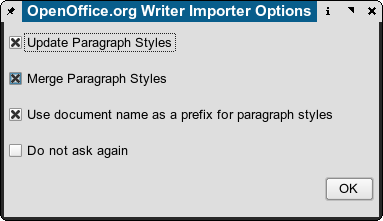
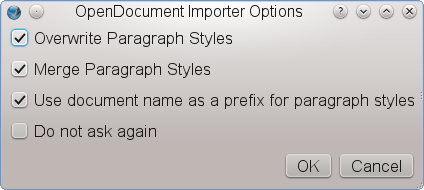
new version of importhints3
git-svn-id: svn+ssh://canvas.scribus.eu/svn/branches/Version135@15727 11d20701-8431-0410-a711-e3c959e3b870

diff --git a/Scribus/scribus/doc/en/importhints3.html b/Scribus/scribus/doc/en/importhints3.html
@@ -1,60 +1,87 @@
 <html>
 <head>
 	<meta http-equiv="Content-Type" content="text/html; charset=UTF-8"/>
-	<title>Scribus and OpenOffice.org</title>
+	<title>Scribus and OpenOffice.org/OpenDocument</title>
 </head>
 <body>
-<h2>Scribus and OpenOffice.org</h2>
-<h4>Overview</h4>
-<p>The open and XML based file formats (.sxw and .odt etc.) used by OpenOffice.org in all versions, share some common traits with Scribus. The clear documentation and specs have helped the Scribus Team to create very useful import features. Expect more enhancements in the future. One of the pleasant surprises to see in the OpenOffice.org version 2 releases is the improved EPS exporter. The 1.1.x version sometimes had difficulties exporting correctly.  The exporter in V 2.x in testing here seems to create better, more conformant files, which Scribus imports with little difficulties. Except for OpenOffice.org Writer files, the magic trick to get high quality imports into Scribus depends on using OO.org Draw. Almost any type of OpenOffice.org file can be imported into Scribus with high fidelity, provided you export from Draw as EPS. Native Draw files can usually be imported directly into Scribus. </p>
-<h4>Importing from OpenOffice.org Writer</h4>
-<p>The importer for Writer imports <strong>only</strong> the text contained in your document. Images and drawings need to be saved separately outside of the Writer document and then each drawing or image is then imported individually. Thus, a compound Writer document with tables of charts will not import the tables or charts. Tables, charts or other embedded objects, need to be placed into their own Draw file and exported by the methods described below.</p>
-<p>The singular most important issue to take into consideration for hassle free OO.org Writer import is well chosen usage and correctly applying styles in OO.org. Doing so will greatly reduce the amount of time needed within Scribus to format and style text. Any special paragraph styles in your Writer file will automatically be imported into your existing Scribus document.</p>
-<h4>Step by Step:</h4>
-<ul>
-<li>Select the text frame.</li>
-<li>Right Click > Get Text..  </li>
-<li>Select your OO.org document. The importer is smart enough to know recognize the type of OO.org file.</li>
- </ul>
+<h2>Scribus and OpenOffice.org/OpenDocument</h2>
 
-<p>This will import <strong>all</strong> the text in your document, so ensure there is enough space in your frames or link extra text frames on subsequent pages. You can comfortably import 10, 20 or even 50 pages of text in one go. In testing the importer we have imported 600 pages. However, the practical limit is probably not more than a chapter's (15&#8211;30 pages) worth of text for performance reasons.</p>
+<h4>Overview</h4>
+<p>When SUN Microsystems started the OpenOffice.org project, it also introduced a new type of file format. While OpenOffice.org&rsquo;s predecessor StarOffice used a binary format to store its data, OpenOffice.org&rsquo;s file format consisted of several XML files that were combined into a ZIP archive. Later, OpenOffice.org&rsquo;s file formats provided the basis for a new international standard for office documents, such as text documents, spreadsheet or presentations. The standard has been developed by the <a href="http://www.oasis-open.org/home/index.php">Organization for the Advancement of Structured Information Standards (OASIS)</a>, and it&rsquo;s called <a href="http://www.oasis-open.org/specs/index.php#opendocument">OpenDocument</a> (ODT). OpenDocument has become an ISO standard in 2006 (ISO/IEC 26300:2006).
+<br>
+The clear documentation and specs have helped the Scribus Team to create some useful import features, which will be enhanced in the future.</p>
+<h4>Importing OpenOffice.org Writer and OpenDocument files</h4>
+<p>The importer for Writer (SXW) and ODT documents works per text frame and imports <i>only</i> the text contained in your document. Images and drawings need to be saved separately outside of the Writer document and then each drawing or image can be imported individually. Thus, a compound Writer document with tables or charts will not import the latter. Tables, charts or other embedded objects, need to be placed into their own Draw file and exported as described below.</p>
+<p>The single most important issue to take into consideration for hassle-free SXW/ODT import is well chosen usage of styles in Writer or any other ODT-compliant word processor. Doing so will greatly reduce the amount of time needed within Scribus to format and style text. Any special paragraph styles in your Writer or ODT file will automatically be imported into your existing Scribus document.</p>
+
+<h4>SXW/ODT import step by step</h4>
+<ol>
+<li>Select the text frame.</li>
+<li>Right-click > Get Text ...  </li>
+<li>Select your SXW/ODT document.</li>
+</ol>
+
+<p>This will import <i>all</i> the text from the source document, so ensure there is enough space in your frame or link extra text frames to the one you are importing into. You can comfortably import 10, 20 or even 50 pages of text in one go. However, the practical limit is probably not more than a chapter&rsquo;s (15&ndash;30 pages) worth of text for performance reasons.</p>
+<h4>Let Scribus create text frames for you</h4>
+<p>If you have an idea how many text frames you will need for the imported text, you can use an advanced import option. You can find it in the &ldquo;Insert&rdquo; menu, and it&rsquo;s called <i>Frame&nbsp;...</i>.</p>
+<p>The &ldquo;Insert Frame&rdquo; dialog consists of four tabs. In the first one you have to select &ldquo;Text Frame&rdquo; in this context. In the second tab, &ldquo;Location&rdquo;, you can determine the pages, on which the new frames will be placed, as well as their position on a page.</p>
+
+<table width="100%"><tr><td align="center"><img src="images/insert-frame-1.png" alt="The &ldquo;Insert Frame&rdquo; dialog, tab 1" align="middle" title="The &ldquo;Insert Frame&rdquo; dialog, tab 1" /></td></tr></table>
+
+<p>In the third tab, &ldquo;Size&rdquo;, you can set the size of the frames that are being inserted, and in the &ldquo;Options&rdquo; tab you determine what&rsquo;s inside the frame and how it will look:</p>
+
+<table width="100%"><tr><td align="center"><img src="images/insert-frame-2.png" alt="The &ldquo;Insert Frame&rdquo; dialog, tab 4" align="middle" title="The &ldquo;Insert Frame&rdquo; dialog, tab 4" /></td></tr></table>
+<p>
+<ul>
+<li><b>Columns</b>: The number of text columns in the frame.</li>
+<li><b>Gap</b>: The gap between the text columns.</li>
+<li><b>Link inserted frames</b> does exactly what it says.</li>
+<li><b>Links to existing frame</b> lets you link the first of the newly created frames to an already existing frame. You can choose the latter from a drop down list that contains all existing frames, sorted by their name.</li>
+<li><b>Source Document:</b> Here can you choose the text document whose content will fill the new frames.</li>
+</ul>
+</p>
+
+<h4>SXW/ODT import options</h4>
 
 <p> When importing text from OO.org there are three important options which need to be carefully considered:</p>
 
-<table width="100%"><tr><td align="center"><img src="images/oogettext1.png" alt="Import Options for OO.org Writer and OASIS (Open Document) files." align="middle" title="Import Options for OO.org Writer and OASIS (Open Document) files." /></td></tr></table>
+<table width="100%"><tr><td align="center"><img src="images/oogettext1.png" alt="Import Options for OO.org Writer and OASIS (Open Document) files." align="middle" title="Import Options for SXW and ODT files." /></td></tr></table>
 
 <ul>
-   <li><strong>Update Paragraph Styles</strong> This option will tell Scribus to change the formatting of any created styles in your Scribus document to follow those in the OO.org document. </li>
-   <li><strong>Merge Paragraph Styles</strong> This option looks at the actual attributes (fonts, size) of the OO.org and merges style which have common attributes. This can help to eliminate differently named, but similar styles.</li>
-   <li><strong>Use Document Name as a prefix for paragraph styles </strong> - is self-explanatory, but can be useful for sorting styles when importing from several documents. </li>
-<li><strong>Do Not Ask Again</strong>  - <strong>Caution</strong> This last option will make this permanent until you completely remove your preferences files. This will be fixed in a future release. <!--reset it in File &#062; Preferences &#062; permanent these options.--></li>
+   <li><b>Overwrite Paragraph Styles</b> This option will tell Scribus to change the formatting of any created styles in your Scribus document to follow those in the imported document. </li>
+   <li><b>Merge Paragraph Styles</b> This option looks at the actual attributes (fonts, size) of the imported document and merges styles which have identical attributes. This can help to eliminate differently named, but otherwise identical styles.</li>
+   <li><b>Use Document Name as a prefix for paragraph styles</b> is self-explanatory. This can be useful for sorting styles when importing from several documents. </li>
+<li><b>Do Not Ask Again</b>  Caution! This last option will make your choices above permanent. The only way to undo this is to open the file <code>prefs135.xml</code> in the hidden folder <code>./scribus</code> in your home directory with a text editor, then search for the text string <code>attribute key"=ask-Again" value=0</code> and replace the 0 with 1.</li>
  </ul>
 
 
 
-<h4>Importing Charts and Tables from Calc </h4>
-<p>This is a special case which needs to be done carefully. After you have created your Chart or Table in Calc, then <strong>Copy > Paste Special </strong> and embed the chart <strong>not</strong> as a GDI image, but as a linked object into a Draw Document, like below:</p>
+<h4>Importing Tables from Calc </h4>
+<p>Since Scribus&rsquo;s table implementation is rather simple, it may be more convenient to create a table in a dedicated spreadsheet application like OpenOffice.org Calc. Here&rsquo;s a step-by-step instruction for successful table import from Calc:</p>
 
-<table width="100%"><tr><td align="center"><img src="images/oochart.png" alt="Embedding a Chart in to OO.org Draw" align="middle" title="Embedding a Chart in to OO.org Draw" /></td></tr></table>
+<p>1. Create your table in either OpenOffice.org Calc:</p>
 
-<p>After placing the linked object, import using one of the two methods below.</p>
+<table width="100%"><tr><td align="center"><img src="images/table-import-1.png" align="middle"/></td></tr></table>
 
-<h4>Importing Native OO.org Draw Files</h4>
-<p>There are two methods: First is to use the native importer. For most drawings this works very well and I have tested very complex Draw files which imported flawlessly. In some cases, especially with gradients, it may be preferable to test exporting EPS, with the settings further down. The second method is to export EPS from OO.org. You should test both methods of export for best quality not only on screen, but by exporting a PDF and then zooming with Adobe Acrobat Reader is a recommended quality check.</p>
+<p>2. Copy the table items you need in Scribus (i.e., not the whole spreadheet) to the clipboard, create a new OpenOffice.org Draw document, and use <i>Edit > Paste Special > GDI Metafile</i> to insert the table as a vector file into Draw: </p>
+<table width="100%"><tr><td align="center"><img src="images/table-import-2.png" align="middle"/></td></tr></table>
 
-<ul>
-   <li>  It is important to note Draw 3D objects do not export well, as they are limited to screen resolution. They do not print well in most cases and will appear pixellated at print resolutions.  </li>
-   <li>Not all shapes in OO.org Draw 2.x are supported. Contours and callouts do not currently work natively. The workaround is to go <strong>Edit > Select All</strong> in Draw and then right click the selection, then choose <strong>Convert to Curves or Convert to Polygons</strong> depending on the kind of content.</li>
-   <li>Most curves, polygons and bezier shapes are imported without issues. The same applies for star shapes, ellipses and markers - a type of line with arrows. </li>
-   <li>Text effects should be avoided in preference to doing them natively in Scribus which has very versatile text effects.  </li>
- </ul>
+<p>3. Use <i>File > Export</i> to export the table as an EPS file. Make sure that &ldquo;Selection&rdquo; is checked in the export dialog, because otherwise the whole page will be exported. </p>
+<p>4. Now import the EPS file as a vector drawing into Scribus via <i>File > Import > Get Vector File</i>. The result will be a nicely formatted table in Scribus that can be edited using Scribus&rsquo;s vector tools:</p>
 
-<h4>Importing Formulas</h4>
-<p>The most reliable way I have found is to save your formula as desired and Close Math. Then open OO.org Draw and create a new file. Then, <strong>Insert Object > Formula</strong>. You will have a tiny embedded square on Draw's canvas. Then, right click the embedded object > <strong>Edit Object</strong>. Then, Draw will launch Math. In Math, select <strong>Tools > Import Formula</strong> and browse to your saved formula. Then save to close the file and the embedded formula is now scalable in Draw with the context menus. Save this Draw file, then export as EPS and import into Scribus. The formulas and text will import as a grouped objects as scalable vector items. Any text is imported as outlines as well. This will result in formulas which will print with <strong>very</strong> high quality and little worries when exported as PDF. Saving the Draw file and attempting to import the Draw file with embedded objects will fail, as Scribus cannot access those object directly.</p>
-<h4>Export Settings from OO.org Draw</h4>
-<p>Below are the recommended EPS export settings for all versions of OO.org Draw.</p>
-<table width="100%"><tr><td align="center"><img src="images/ooeps1.png" alt="Recommended EPS Export Settings" align="middle" title="Recommended EPS Export Settings" /></td></tr></table>
+<table width="100%"><tr><td align="center"><img src="images/table-import-3.png" align="middle"/></td></tr></table>
 
-<p>Using the settings above and a recent Ghostscript (8.50+), I have encountered only minor difficulties importing files from OpenOffice.org. Even then, ungrouping the import and minor touching up is easily done. The most noticeable issue I have found is some lines on charts or freehand lines are too thin when viewed as imported EPS in Scribus and a quick adjustment of the size of the line with the Properties Palette sets things right.</p>
+<h4>Importing SXD and ODG graphics files</h4>
+<p>There are two methods: The first is to use the native importer. For many drawings this works very well. In some cases, especially with gradients, it may be preferable to test exporting as EPS or SVG.</p>
+
+<p>It is important to note that Draw 3D objects do not export well, as they are limited to screen resolution. They also do not print well in most cases and will appear pixellated at print resolutions. Moreover, not all shapes and certain kinds of lines, like, for instance, connectors, are supported by the Scribus import filter.</p>
+<p>In case you need any of the above, there&rsquo;s a reliable workaround: Like almost any program that allows for printing, OpenOffice.org provides an option to print to a file instead of sending the data to a printer. Simply go to <i>File > Print</i> in OpenOffice.org and check the &ldquo;Print to File&rdquo; option. On Linux/UNIX and Mac OS X this will create a PostScript file.</p>
+
+<p>On Windows and OS/2 you have to install a PostScript printer driver (e.g. Apple Color Laser Writer) first. When you are asked to insert a name for the file you will print to, make sure you select or add "ps" as the file extension.</p>
+
+<p>Next you can open the file or import it as a vector file into Scribus. This time, the content looks almost if not 100&nbsp;% like the original. Even low-resolution 3D graphics have smooth edges now.</p>
+
+<h4>Importing SXM and ODF formulas</h4>
+<p>The most reliable way is to create a formula In OpenOffice.org Math and save it as SXM or ODF. Then open OpenOffice.org Draw and create a new file. Use <i>Insert Object > Formula</i>. You will have a tiny embedded square on Draw&rsquo;s canvas. Next, open <i>Edit Object</i> from the context menu. Draw will now launch Math. In Math, select <i>Tools > Import Formula</i>, browse to your saved formula and save to close the file. The embedded formula is now editable as a vector object. Save this Draw file, then export as EPS and import into Scribus. The formulas and text will import as scalable vector items. This will result in formulas which will print with <b>very</b> high quality and no worries when exported as PDF. Saving the Draw file and attempting to import the Draw file with embedded objects will fail, as Scribus cannot access those objects directly.</p>
 </body>
 </html>
